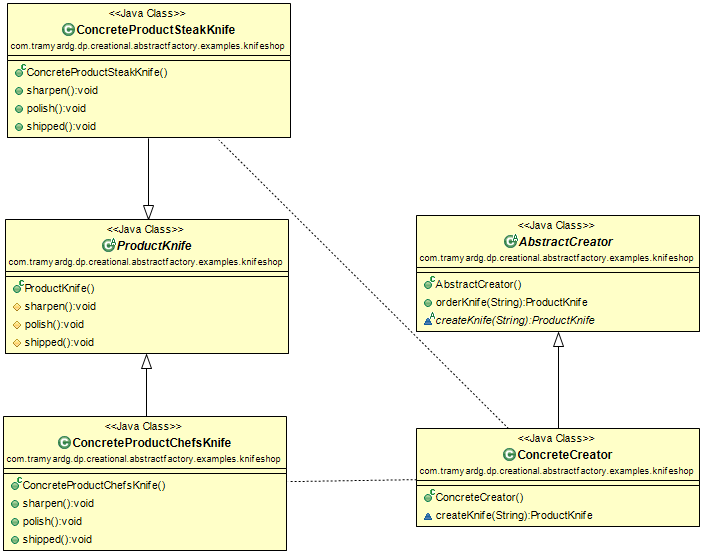
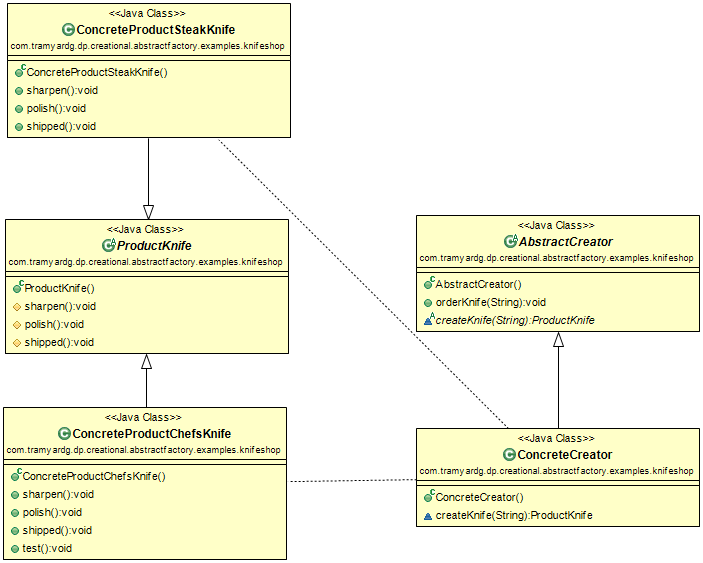
changed orderKnife type to void (abstract factory)

diff --git a/src/main/java/com/tramyardg/dp/creational/abstractfactory/examples/knifeshop/AbstractCreator.java b/src/main/java/com/tramyardg/dp/creational/abstractfactory/examples/knifeshop/AbstractCreator.java
@@ -2,13 +2,12 @@ package com.tramyardg.dp.creational.abstractfactory.examples.knifeshop;
 
 public abstract class AbstractCreator {
 
-    public ProductKnife orderKnife(String knifeType) {
+    public void orderKnife(String knifeType) {
 	ProductKnife knife;
 	knife = createKnife(knifeType);
 	knife.sharpen();
 	knife.polish();
 	knife.shipped();
-	return null;
     }
 
     abstract ProductKnife createKnife(String knifeType);

diff --git a/src/main/java/com/tramyardg/dp/creational/abstractfactory/examples/knifeshop/ConcreteProductChefsKnife.java b/src/main/java/com/tramyardg/dp/creational/abstractfactory/examples/knifeshop/ConcreteProductChefsKnife.java
@@ -17,4 +17,8 @@ public class ConcreteProductChefsKnife extends ProductKnife {
 	System.out.println("Shipping chefs knife");
     }
     
+    public void test() {
+	
+    }
+    
 }
